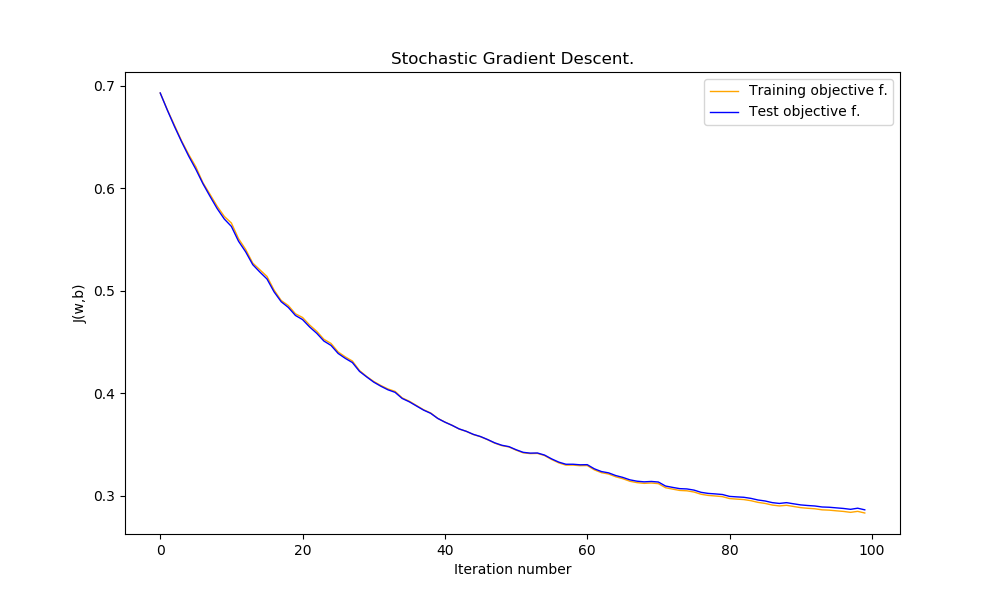
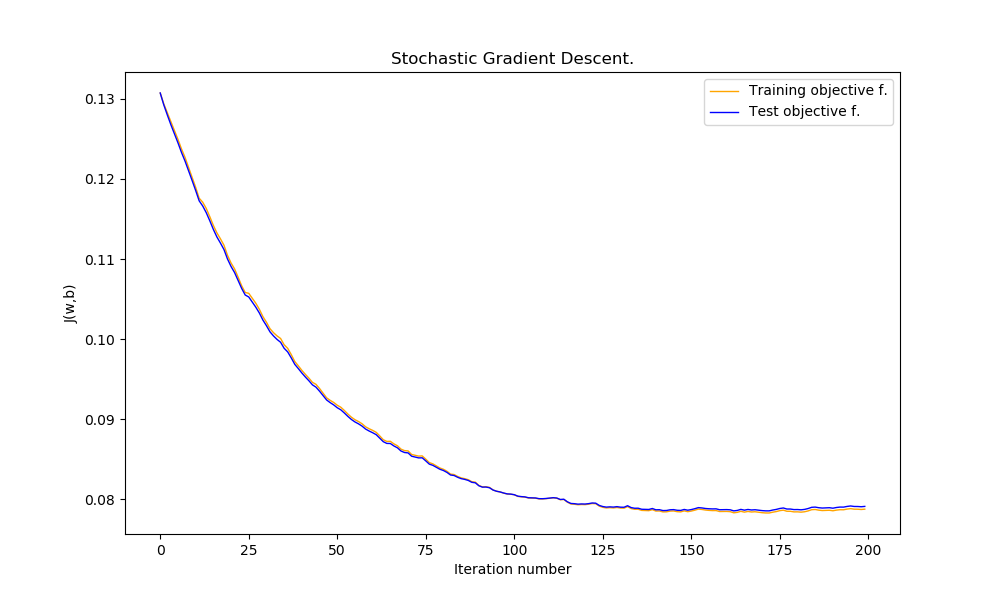
Fix the negative sign error, update code and plots.

diff --git a/HW2/HW2_code_solutions/logistic_regression.py b/HW2/HW2_code_solutions/logistic_regression.py
@@ -127,9 +127,9 @@ def J(x, y, w, b, lambd):
     """
     n, d = x.shape
     exponential = np.exp(-(y*b + y*np.dot(x, w)))
-    log = np.log(1 + exponential)
+    log = np.log10(1 + exponential) / (n*np.log(10))
     regularization = lambd * np.dot(w.T, w)
-    return  np.sum(log/n) + regularization
+    return  np.sum(log) + regularization
 
 
 def mu(x, y, w, b):
@@ -155,7 +155,7 @@ def mu(x, y, w, b):
     mu : `float`
         Value of the substitution expression
     """
-    exponential = np.exp(-(y*b + y*np.dot(x, w)))
+    exponential = np.exp(-y*b - y*np.dot(x, w))
     return 1 / (1+exponential)
 
 
@@ -191,7 +191,7 @@ def grad_w_J(x, y, w, b, lambd):
     # sizes of the vectors and arrays by adding a dummy axis
     firstTerm = y[:, np.newaxis] * x * mus[:, np.newaxis]
     secondTerm = 2*lambd*w
-    return np.sum(firstTerm, axis=0)/n + secondTerm
+    return np.sum(firstTerm, axis=0) / (n*np.log(10)) + secondTerm
 
 
 def grad_b_J(x, y, w, b):
@@ -222,7 +222,7 @@ def grad_b_J(x, y, w, b):
     mus = mu(x, y, w, b) - 1
     # row-wise multiplication
     firstTerm = y[:, np.newaxis] * x * mus[:, np.newaxis]
-    return np.sum(firstTerm)/n
+    return np.sum(firstTerm) / (n*np.log(10))
 
 
 def classify(x, w, b):
@@ -409,6 +409,9 @@ def A6abc(nIter, lambd, step, stochastic=False, batchSize=1, title="Gradient Des
         testJ.append(J(testData, testLabels, wi, bi, lambd))
         trainMisslbls.append(count_missclassified(testData, wi, bi, testLabels))
 
+    print(f"{title}")
+    print(f"    Converged to offset b={b:.4f}")
+    print(f"    Objective converged for train to J={trainJ[-1]:.4f} and test J={testJ[-1]:.4f}")
 
     iters = np.arange(nIter)
 
@@ -428,24 +431,24 @@ def A6abc(nIter, lambd, step, stochastic=False, batchSize=1, title="Gradient Des
     plt.show()
 
 
-def A6b(nIter=100, lambd=0.1, step=0.01):
+def A6b(nIter=200, lambd=0.1, step=0.01):
     """Calls A6abc with parameters specified in problem A6 b"""
     A6abc(nIter, lambd, step)
 
 
-def A6c(nIter=100, lambd=0.1, step=0.01, stochastic=True, batchSize=1):
+def A6c(nIter=200, lambd=0.1, step=0.01, stochastic=True, batchSize=1):
     """Calls A6abc with parameters specified in problem A6 c"""
     A6abc(nIter, lambd, step, stochastic, batchSize, title="Stochastic Gradient Descent.")
 
 
-def A6d(nIter=100, lambd=0.1, step=0.01, stochastic=True, batchSize=100):
+def A6d(nIter=200, lambd=0.1, step=0.01, stochastic=True, batchSize=100):
     """Calls A6abc with parameters specified in problem A6 d"""
     A6abc(nIter, lambd, step, stochastic, batchSize, title="Stochastic Gradient Descent.")
 
 
 def A6():
-    #A6b()
-    #A6c()
+    A6b()
+    A6c()
     A6d()
     pass
 
